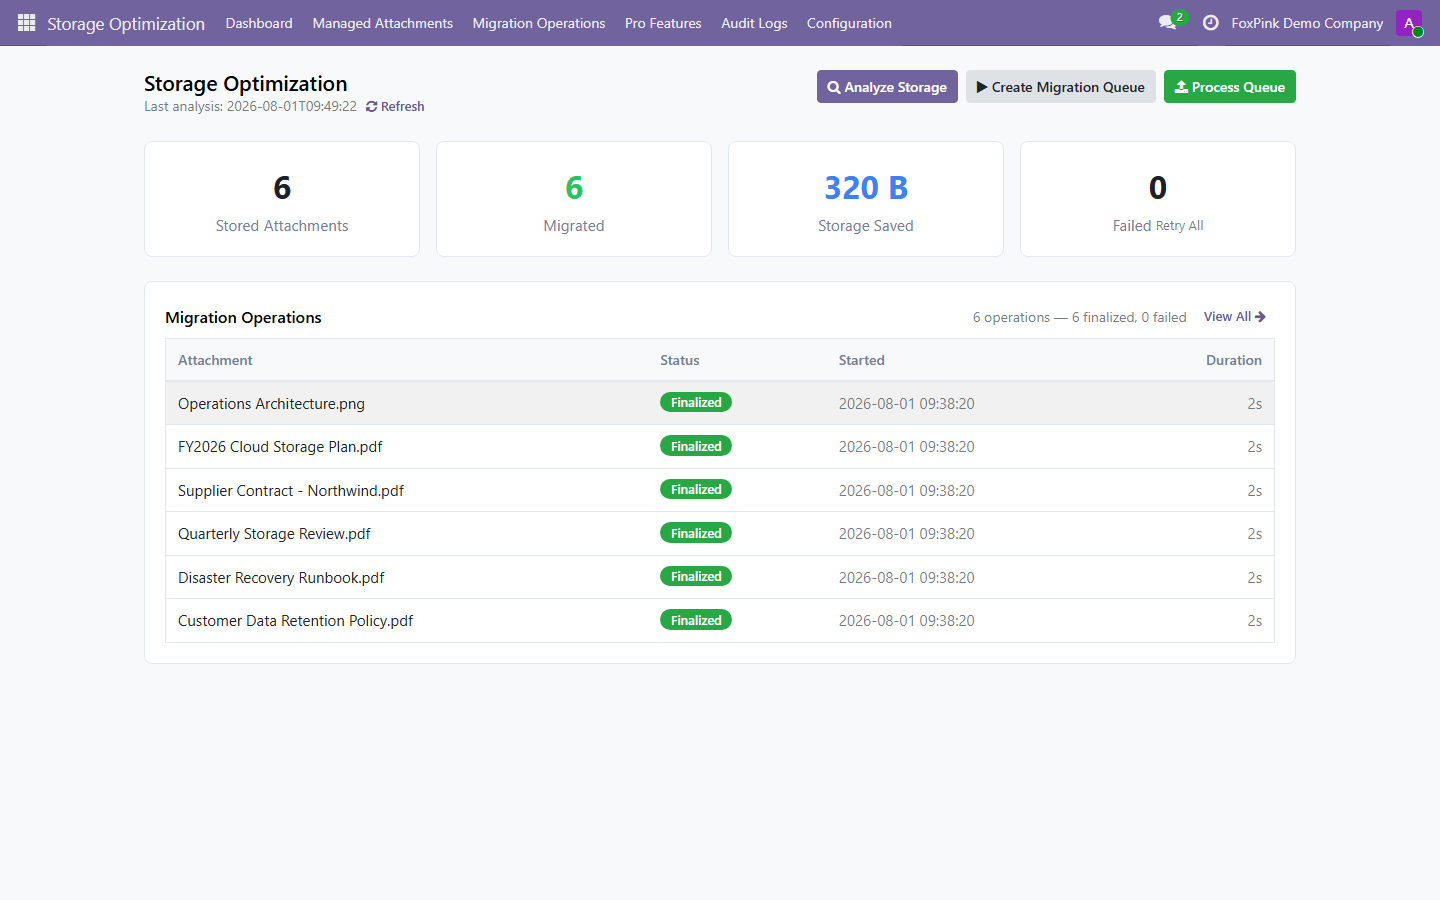
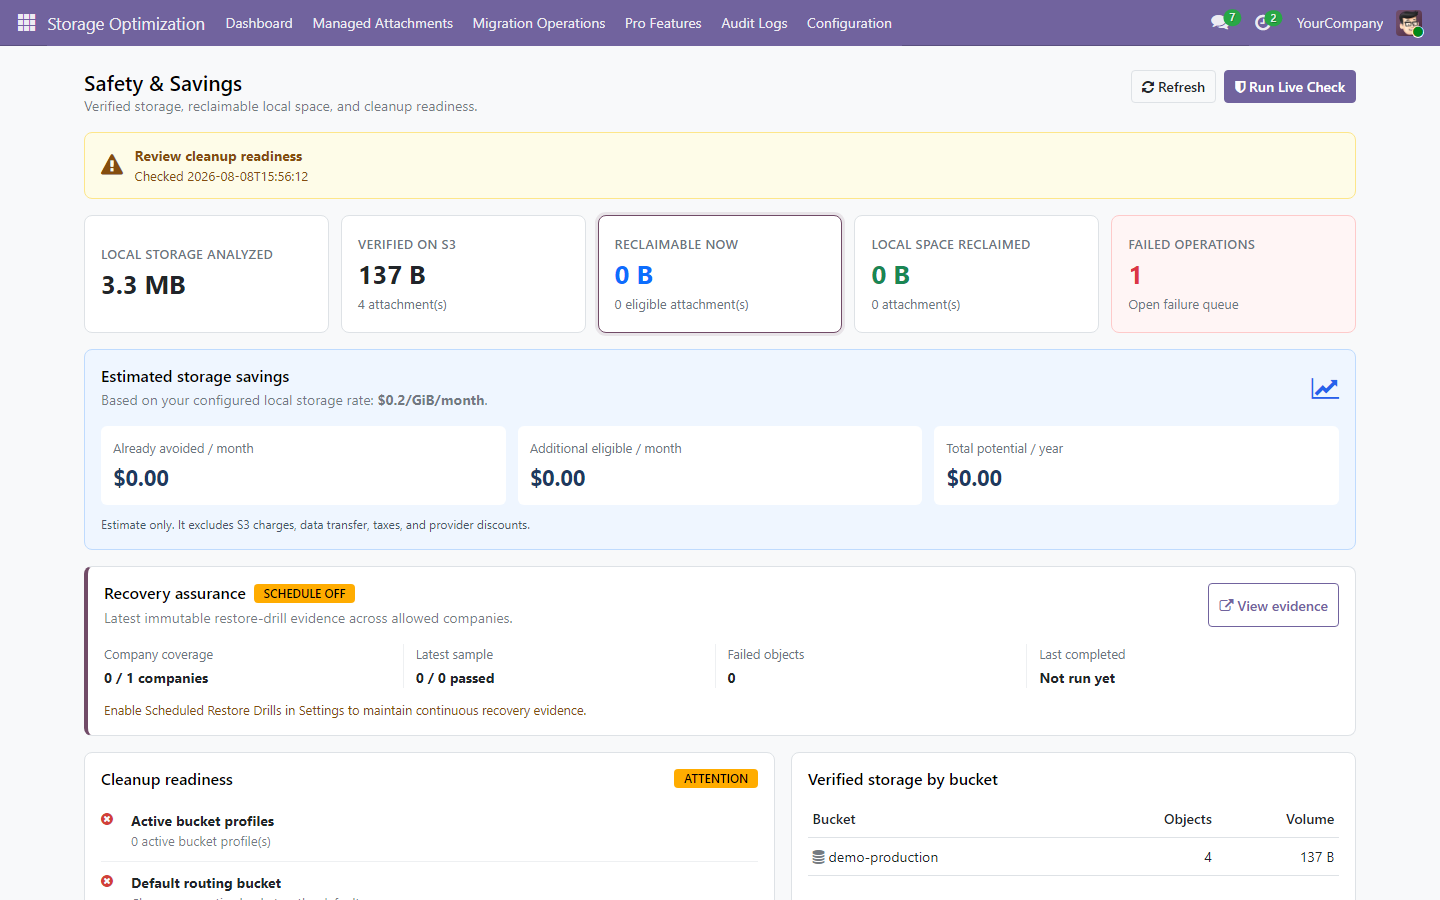
fix: render and document Pro dashboard screenshot

diff --git a/attachment_optimizer_pro/static/description/index.html b/attachment_optimizer_pro/static/description/index.html
@@ -96,6 +96,6 @@ For subsequent modules, update content inside sections only. Do not alter sectio
     </div>
 
     <!-- FOOTER -->
-    <div style="border:1px solid #e2e8f0; border-radius:16px; padding:32px 24px; margin:40px 0 16px; text-align:center;"><div style="font-size:14px; font-weight:700; color:#1e293b; text-transform:uppercase;">Attachment Optimizer Pro</div><p style="font-size:13px; color:#64748b; line-height:1.6;">Automated, verified S3-compatible attachment lifecycle management for Odoo.</p><div style="display:inline-block; border:2px solid #4f46e5; color:#4f46e5; font-weight:700; font-size:13px; padding:10px 28px; border-radius:8px;">US$49 · One-Time · No Subscription</div><p style="font-size:11px; color:#94a3b8; margin:20px 0 0;">Version 19.0.1.0.16 · Built and maintained by FoxPink</p></div>
+    <div style="border:1px solid #e2e8f0; border-radius:16px; padding:32px 24px; margin:40px 0 16px; text-align:center;"><div style="font-size:14px; font-weight:700; color:#1e293b; text-transform:uppercase;">Attachment Optimizer Pro</div><p style="font-size:13px; color:#64748b; line-height:1.6;">Automated, verified S3-compatible attachment lifecycle management for Odoo.</p><div style="display:inline-block; border:2px solid #4f46e5; color:#4f46e5; font-weight:700; font-size:13px; padding:10px 28px; border-radius:8px;">US$49 · One-Time · No Subscription</div><p style="font-size:11px; color:#94a3b8; margin:20px 0 0;">Version 19.0.1.0.17 · Built and maintained by FoxPink</p></div>
   </div>
 </section>

diff --git a/attachment_optimizer_pro/__manifest__.py b/attachment_optimizer_pro/__manifest__.py
@@ -1,6 +1,6 @@
 {
     "name": "Attachment Optimizer Pro",
-    "version": "19.0.1.0.16",
+    "version": "19.0.1.0.17",
     "category": "Storage",
     "summary": "Automation, cleanup, routing and lifecycle for S3-compatible attachment storage.",
     "description": """
@@ -43,9 +43,12 @@
         "data/pro_cron.xml",
     ],
     "assets": {
-        "web.assets_backend": [
-            "attachment_optimizer_pro/static/src/components/pro_dashboard/pro_dashboard.js",
+        "web.assets_qweb": [
             "attachment_optimizer_pro/static/src/components/pro_dashboard/pro_dashboard.xml",
+        ],
+        "web.assets_backend": [
+            "attachment_optimizer_pro/static/src/components/pro_dashboard/pro_dashboard.xml",
+            "attachment_optimizer_pro/static/src/components/pro_dashboard/pro_dashboard.js",
             "attachment_optimizer_pro/static/src/components/pro_dashboard/pro_dashboard.scss",
         ],
     },

diff --git a/README.md b/README.md
@@ -8,7 +8,7 @@ Only update product content, version, links, compatibility status, screenshots, 
 
 ![Attachment Optimizer Pro](attachment_optimizer_pro/static/description/preview.png)
 
-**Version:** 19.0.1.0.16 -- **License:** OPL-1 -- **Publisher:** FoxPink -- Maintained for **Odoo 19.0**
+**Version:** 19.0.1.0.17 -- **License:** OPL-1 -- **Publisher:** FoxPink -- Maintained for **Odoo 19.0**
 
 ---
 
